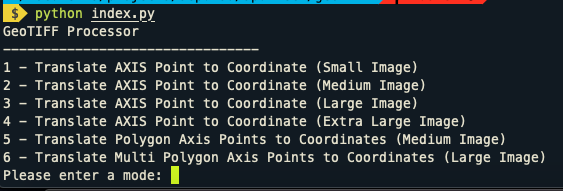
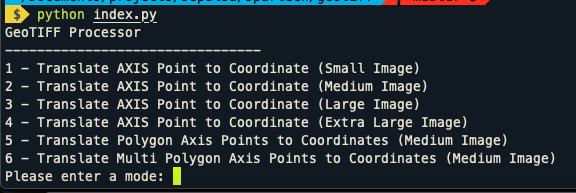
Fix menu

diff --git a/index.py b/index.py
@@ -7,6 +7,6 @@ if __name__ == "__main__":
     'translate_axis_point_to_coordinate_large': 'Translate AXIS Point to Coordinate (Large Image)',
     'translate_axis_point_to_coordinate_extra_large': 'Translate AXIS Point to Coordinate (Extra Large Image)',
     'translate_polygon_axis_points_to_coordinates': 'Translate Polygon Axis Points to Coordinates (Medium Image)',
-    'translate_multi_poliygon_axis_points_to_coordinates': 'Translate Multi Polygon Axis Points to Coordinates (Large Image)'  
+    'translate_multi_poliygon_axis_points_to_coordinates': 'Translate Multi Polygon Axis Points to Coordinates (Medium Image)'  
   })
   InteractiveMenu.show_menu()

diff --git a/app/interactive_menu.py b/app/interactive_menu.py
@@ -89,7 +89,7 @@ class InteractiveMenu():
         [(100,100), (1100,100), (1100,1100), (100,1100)],
         [(100,2000), (1100,2000), (1100,3000), (100,3000)]
       ]
-      GeoTiffProcessor.get_multi_polygon_axis_point_coordinates(self.image_types['large'], points, {'debug': True})
+      GeoTiffProcessor.get_multi_polygon_axis_point_coordinates(self.image_types['medium'], points, {'debug': True})
     except Exception as e:
       err= read_exception_data(e)
       pretty_print(err)

diff --git a/README.md b/README.md
@@ -43,5 +43,5 @@
 #### Menu 5 - Translate Polygon Axis to Coordinate (Medium file size)
 ![](/data/screenshots/menu-5-get-coordinates-from-polygon-medium-size-image.png?raw=true)
 
-#### Menu 6 - Translate Multi Polygon Axis to Coordinate (Large file size)
-![](/data/screenshots/menu-6-get-coordinates-from-polygon-large-size-image.png?raw=true)
+#### Menu 6 - Translate Multi Polygon Axis to Coordinate (Medium file size)
+![](/data/screenshots/menu-6-get-coordinates-from-polygon-medium-size-image.png?raw=true)
